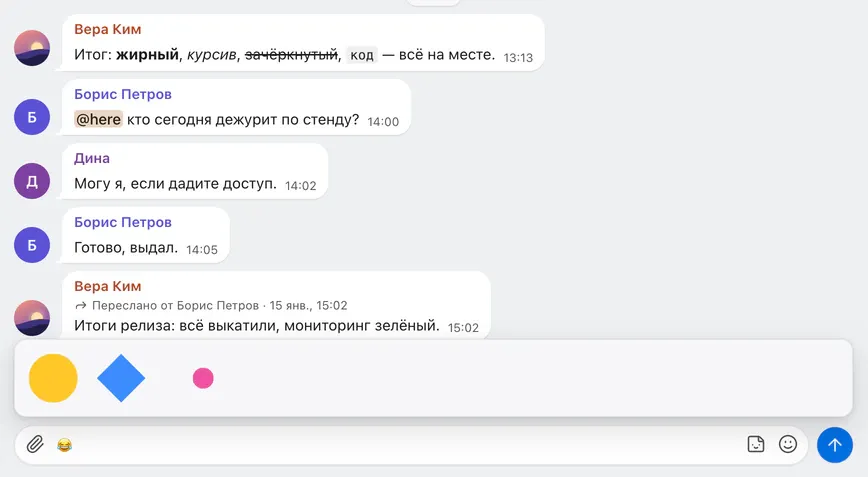
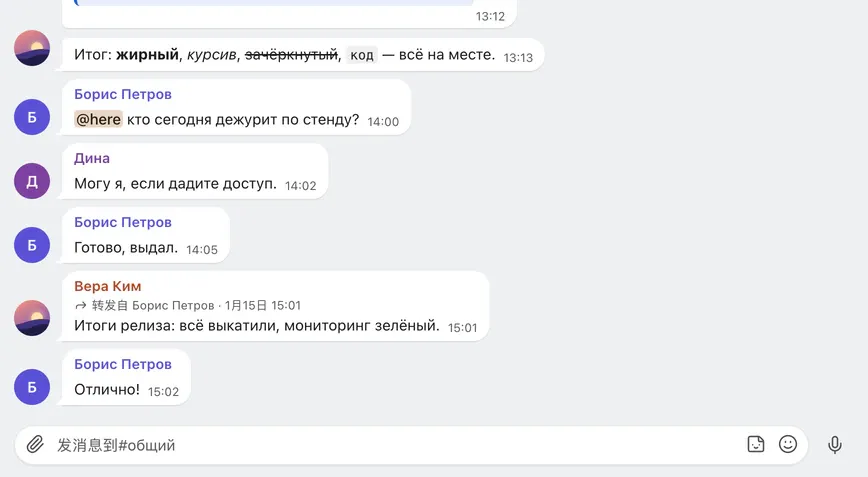
fix(landing): chat shot without the sticker strip
The mock's stickers are placeholder shapes: the chat scene now shows the
forwarded message over an ordinary composer. The room is re-opened after
each language switch so the memoized forward line follows the locale.
Alts, assets.mjs comment, landing README, docs/09 #110, CHANGELOG updated.

Checks: landing chat captured dark + light x ru/en/es/zh; pnpm -F
@calaba/landing assets (chat 54-60 KB @2x); landing lint/typecheck/build
pass; viewed es dark and zh light crops.

diff --git a/apps/desktop/e2e-marketing/landing.spec.ts b/apps/desktop/e2e-marketing/landing.spec.ts
@@ -249,11 +249,9 @@ test(`landing camera ${theme}`, async ({ open, win, mock }) => {
   await everyLocale(win, 'camera');
 });
 
-// ---- chat: a forwarded message, the sticker strip over the composer (😂 typed).
+// ---- chat: a forwarded message over an ordinary composer (the mock's stickers are placeholder shapes).
 test(`landing chat ${theme}`, async ({ open, win, mock }) => {
   await open();
-  await win.emulateMedia({ reducedMotion: 'reduce' });
-  mock.seedLaughStickers();
   await general(win);
   mock.injectMessage({
     roomId: IDS.rooms.general,
@@ -261,18 +259,15 @@ test(`landing chat ${theme}`, async ({ open, win, mock }) => {
     content: 'Итоги релиза: всё выкатили, мониторинг зелёный.',
     forward: { authorId: IDS.users.boris, sentAtMs: Date.parse('2026-01-14T16:05:00Z'), roomId: IDS.rooms.dev },
   });
-  // The sticker strip lies over the feed's last row: a short line under the forwarded message.
   mock.injectMessage({ roomId: IDS.rooms.general, authorId: IDS.users.boris, content: 'Отлично!' });
   await expect(win.getByTestId('forward-line')).toHaveCount(1);
   await feedBottom(win);
-  const field = win.getByRole('textbox', { name: /^Сообщение в/ });
-  await field.fill('😂');
-  const strip = win.getByTestId('sticker-suggest');
-  await expect(strip.locator('[data-sticker-suggest]')).toHaveCount(3);
-  await expect(win.locator('[data-sticker-still]:not([data-drawn])')).toHaveCount(0);
+  // Memoized feed rows keep the forward line's language after a live switch: re-open the room.
   await everyLocale(win, 'chat', async () => {
+    await win.locator('aside').getByRole('button', { name: /разработка/ }).first().click();
+    await general(win);
+    await expect(win.getByTestId('forward-line')).toHaveCount(1);
     await feedBottom(win);
-    await expect(strip.locator('[data-sticker-suggest]')).toHaveCount(3);
   });
 });
 

diff --git a/apps/landing/src/i18n/ru.ts b/apps/landing/src/i18n/ru.ts
@@ -75,7 +75,7 @@ const ru = {
         title: 'Чат как в Telegram',
         text: 'У каждой голосовой комнаты свой чат. Ответы, реакции, пересылка, стикеры, голосовые сообщения, файлы с превью, закрепы и поиск.',
         points: ['Пересылка сразу в несколько чатов', 'Стикерпаки пространства, в том числе анимированные', 'Голосовые, музыка и видео со встроенным плеером'],
-        alt: 'Пересланное сообщение «Переслано от Борис Петров» и подсказка стикеров над полем ввода',
+        alt: 'Лента канала с пересланным сообщением «Переслано от Борис Петров» и полем ввода',
       },
       dm: {
         title: 'Личные сообщения и звонки',

diff --git a/apps/landing/src/i18n/en.ts b/apps/landing/src/i18n/en.ts
@@ -74,7 +74,7 @@ const en: Dict = {
         title: 'Chat like Telegram',
         text: 'Every voice room has its own chat. Replies, reactions, forwarding, stickers, voice messages, files with previews, pins and search.',
         points: ['Forward to several chats at once', 'Workspace sticker packs, animated too', 'Voice messages, music and video with a built-in player'],
-        alt: 'A forwarded message (“Forwarded from Борис Петров”) and sticker suggestions above the message field',
+        alt: 'The channel feed with a forwarded message (“Forwarded from Борис Петров”) and the message field',
       },
       dm: {
         title: 'Direct messages and calls',

diff --git a/apps/landing/src/i18n/es.ts b/apps/landing/src/i18n/es.ts
@@ -74,7 +74,7 @@ const es: Dict = {
         title: 'Chat como en Telegram',
         text: 'Cada sala de voz tiene su chat. Respuestas, reacciones, reenvío, stickers, mensajes de voz, archivos con vista previa, fijados y búsqueda.',
         points: ['Reenvío a varios chats a la vez', 'Paquetes de stickers del espacio, también animados', 'Mensajes de voz, música y vídeo con reproductor integrado'],
-        alt: 'Un mensaje reenviado de Борис Петров y sugerencias de stickers sobre el campo de texto',
+        alt: 'El canal con un mensaje reenviado de Борис Петров y el campo de texto',
       },
       dm: {
         title: 'Mensajes directos y llamadas',

diff --git a/apps/landing/src/i18n/zh.ts b/apps/landing/src/i18n/zh.ts
@@ -75,7 +75,7 @@ const zh: Dict = {
         title: '像 Telegram 一样好用的聊天',
         text: '每个语音房间都有自己的聊天。回复、表情回应、转发、贴纸、语音消息、带预览的文件、置顶和搜索。',
         points: ['一次转发到多个聊天', '工作区贴纸包，也支持动态贴纸', '语音消息、音乐和视频内置播放器'],
-        alt: '一条转发自 Борис Петров 的消息，输入框上方显示贴纸建议',
+        alt: '频道消息流：一条转发自 Борис Петров 的消息和输入框',
       },
       dm: {
         title: '私信与通话',

diff --git a/docs/09-ui-backlog.md b/docs/09-ui-backlog.md
@@ -262,4 +262,4 @@
 108. ✅ **Карточка участника: переключение кликом, отступ до кнопок, бейдж в строке имени** (владелец, 29.09): при открытой карточке клик по другому участнику в колонке переносит её на него (раньше карточка переключалась и сразу пропадала); «Написать / Позвонить» — в 16 px от шапки (было 12); бейдж — 16 px сразу после имени, без отдельной строки «[значок] название» (название — подсказкой), в полном профиле — 20 px рядом с именем. e2e `members-profile-switch`.
 99. ✅ **Фоны камеры пространства (админы)** (владелец, 29.09, ADR-0035): «Настройки пространства → Фоны камеры» (`MANAGE_WORKSPACE`, ≤ 20): загрузить (та же обрезка 16:9, что у своих), переименовать, удалить с подтверждением; сервер делает 1280×720 WebP + миниатюру 320×180, считает в квоте файлов, без лимита тарифа. В «Проверьте камеру» → «Фон» группа «Фоны пространства» над встроенными; удалённый выбранный фон сбрасывается на «Нет». Сервер: миграция 00038, `GET/POST/PATCH/DELETE …/backgrounds`, `WorkspaceSnapshot.backgrounds`, `BACKGROUND_*`, боты — 403. Эталоны `settings-backgrounds`, `camera-preview`.
 109. ✅ **Островок: подложка-градиент и отступ списка под ним** (владелец, 29.09): в 8 px вокруг и под нижним островком просвечивали строки списка комнат («Dev 06»). Рейл, колонка комнат и «Личные» (и мобильная шторка) заканчиваются сплошной подложкой своего цвета: `::after` высотой `--island-height` + 16 px, `linear-gradient(to top, <цвет колонки> 70%, transparent)`, ниже островка по z, без `backdrop-filter`, без событий (`.island-fade` в `styles.css`); высоту островка по-прежнему меряет `ResizeObserver` в `BottomIsland` в CSS-переменную — строки не перерисовываются. Нижний отступ списков остаётся `--island-height` + 20 px. Снимки `main-chat`, `voice-room`, `dm-chat`.
-110. ✅ **Скриншоты лендинга по локалям и README** (владелец, 29.09): все кадры лендинга (hero, голос, стрим + камера, чат, звонок, запись, телефон) снимаются в каждом языке интерфейса — сцена готовится один раз, язык переключается на лету visual-test-хуком `__calabaLocale` (App.tsx), файлы `public/screens/<name>-<ru|en|es|zh>-<theme>{,@2x}.webp` (≤ 250 КБ), страница берёт свой язык (нет снимков — английские). Новые сцены: бейджи и шестерёнка в заголовке (hero), пересланное + полоса стикеров (чат), звонок в ЛС, карточка записи с кругом воспроизведения, «Проверьте камеру» с размытием (врезка в ряду стрима). README — 7 кадров ru/dark 2x в `docs/images/readme/*.webp`, старые PNG удалены. Съёмка: `e2e-marketing/landing.spec.ts` (сырые кадры в `apps/landing/shots/`, не в git) → `pnpm -F @calaba/landing assets`; `apps/landing/README.md`.
+110. ✅ **Скриншоты лендинга по локалям и README** (владелец, 29.09): все кадры лендинга (hero, голос, стрим + камера, чат, звонок, запись, телефон) снимаются в каждом языке интерфейса — сцена готовится один раз, язык переключается на лету visual-test-хуком `__calabaLocale` (App.tsx), файлы `public/screens/<name>-<ru|en|es|zh>-<theme>{,@2x}.webp` (≤ 250 КБ), страница берёт свой язык (нет снимков — английские). Новые сцены: бейджи и шестерёнка в заголовке (hero), пересланное сообщение (чат; полосу стикеров не снимаем — у мока заглушки-фигуры), звонок в ЛС, карточка записи с кругом воспроизведения, «Проверьте камеру» с размытием (врезка в ряду стрима). README — 7 кадров ru/dark 2x в `docs/images/readme/*.webp`, старые PNG удалены. Съёмка: `e2e-marketing/landing.spec.ts` (сырые кадры в `apps/landing/shots/`, не в git) → `pnpm -F @calaba/landing assets`; `apps/landing/README.md`.

diff --git a/CHANGELOG.md b/CHANGELOG.md
@@ -20,7 +20,7 @@
 - **Дни рождения**: сегодняшние именинники — праздничная плашка вверху панели участников (и в мобильной шторке) с кнопкой «Поздравить» (открывает личные сообщения) и подсказкой, когда в чате появится открытка; «Скоро» — компактно ниже. Открытка приходит в 09:00 по поясу именинника, а если он не задан — по поясу владельца пространства (раньше — по UTC, в Москве это было 12:00).
 - **Настройки — в заголовке окна**: шестерёнка переехала из панели внизу слева в правую часть заголовка окна, между упоминаниями и «?». В нижней панели остались микрофон и наушники; их кнопки при наведении стали ровнее — иконка и стрелка по центру. На телефоне настройки по-прежнему в боковой шторке.
 - **Карточка своего стрима** в панели голоса стала ниже: название экрана или окна — маленькой меткой в углу рядом с «LIVE» и числом зрителей. Кнопки при наведении на комнату в списке стоят вплотную парой.
-- **Лендинг calab.ru — скриншоты на языке страницы**: на ru/en/es/zh-страницах интерфейс приложения на скриншотах на том же языке; новые кадры — пересланное сообщение и подсказка стикеров, звонок один на один, карточка записи с плеером, камера с размытием фона (в ряду «Стрим экрана и камера»); в README — новый блок скриншотов.
+- **Лендинг calab.ru — скриншоты на языке страницы**: на ru/en/es/zh-страницах интерфейс приложения на скриншотах на том же языке; новые кадры — пересланное сообщение, звонок один на один, карточка записи с плеером, камера с размытием фона (в ряду «Стрим экрана и камера»); в README — новый блок скриншотов.
 - **Лендинг calab.ru**: окно приложения целиком на первом экране, блок «Почему Calab» (CPU, свой сервер, VPN, записи встреч), возможности рядами с новыми скриншотами (звонки один на один, записи встреч с саммари, боты, телефон), тарифы — карточки и одна таблица сравнения; «Чем вдохновлялись» убрано, шапка без стекла.
 
 ### Исправлено

diff --git a/apps/landing/README.md b/apps/landing/README.md
@@ -66,7 +66,7 @@ selectors), then the app switches language live (visual-test hook `__calabaLocal
    ```
    `CALABA_LANDING_LOCALES=ru,en` narrows the languages, `-g "landing chat"` one scene. Raw full-window PNGs land in
    `apps/landing/shots/<shot>-<locale>-<theme>@2x.png` (git-ignored, ~0.3 MB each). Scenes: `hero` (in voice, badges),
-   `voice` (+ noise popover), `stream`, `camera` (blur, workspace backgrounds), `chat` (forwarded + sticker strip),
+   `voice` (+ noise popover), `stream`, `camera` (blur, workspace backgrounds), `chat` (forwarded message),
    `call` (1:1 call), `recording` (card playing), `badges` (README only, ru), `mobile` (iPhone 14 in WebKit).
 2. `pnpm -F @calaba/landing assets` — `scripts/assets.mjs` crops (offsets in window points at the top of the script —
    check them when the app layout changes; the CSS sizes in `hero.tsx`/`features.tsx` equal the crops), draws the
